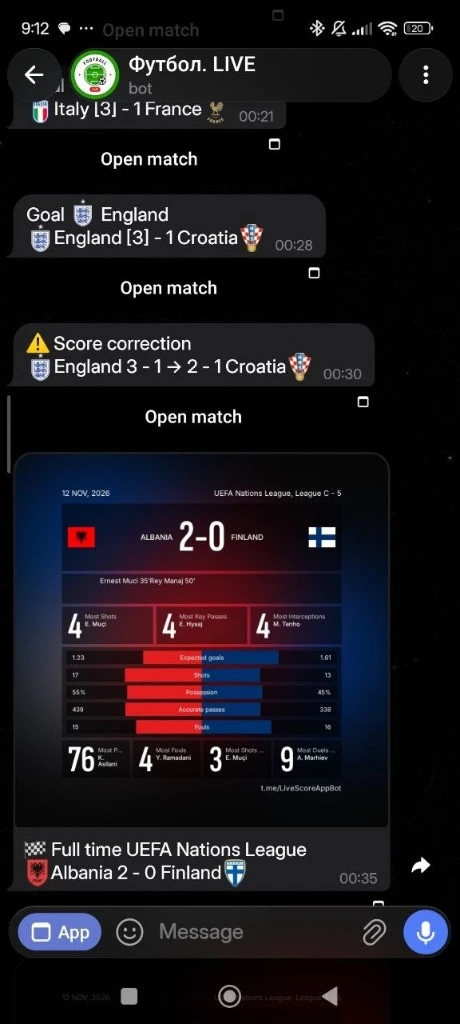
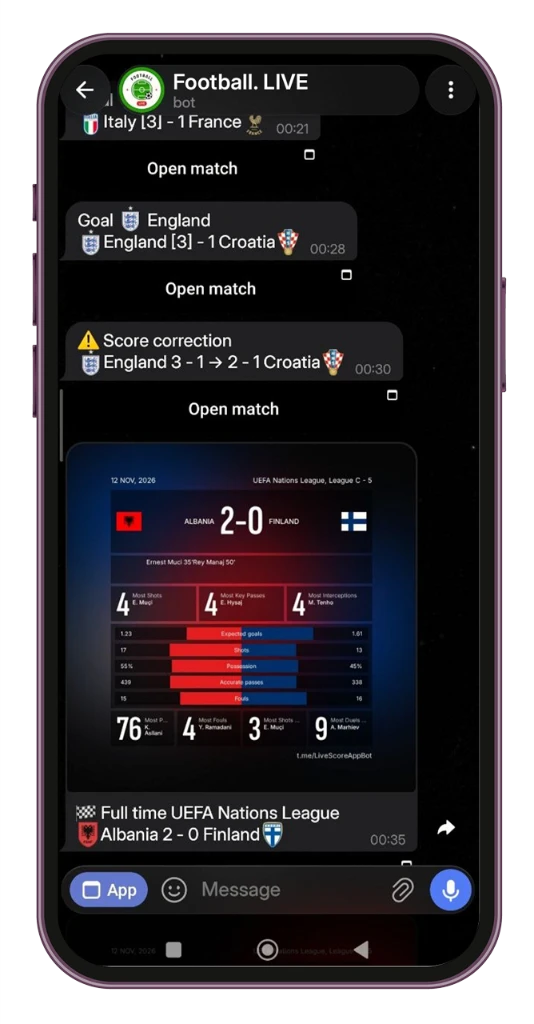
feat(home): refresh product screenshots and tighten section copy
Ship framed bot/Mini App WebPs with matching sizes, shorten how-it-works wording, and drop the redundant pricing blurb.

diff --git a/src/components/home/HomeLanding.tsx b/src/components/home/HomeLanding.tsx
@@ -50,7 +50,7 @@ export default async function HomeLanding({ locale }: Props) {
 					imageSrc="/images/home-notifications.webp"
 					imageAlt={copy.notifications.imageAlt}
 					imageAtRight
-					imageWidth={460}
+					imageWidth={534}
 					imageHeight={1024}
 					sizes="(max-width: 768px) 100vw, 24rem"
 				/>
@@ -62,6 +62,9 @@ export default async function HomeLanding({ locale }: Props) {
 					imageSrc="/images/home-miniapp.webp"
 					imageAlt={copy.miniApp.imageAlt}
 					imageAtRight={false}
+					imageWidth={534}
+					imageHeight={1024}
+					sizes="(max-width: 768px) 100vw, 24rem"
 				/>
 			</div>
 			<Suspense fallback={null}>

diff --git a/src/components/home/PricingTabs.tsx b/src/components/home/PricingTabs.tsx
@@ -26,7 +26,9 @@ export default function PricingTabs({
 					<SectionTitle>
 						<h2 className="mb-4">{title}</h2>
 					</SectionTitle>
-					<p className="text-foreground-accent">{description}</p>
+					{description ? (
+						<p className="text-foreground-accent">{description}</p>
+					) : null}
 				</div>
 
 				<div className="mx-auto max-w-3xl">
